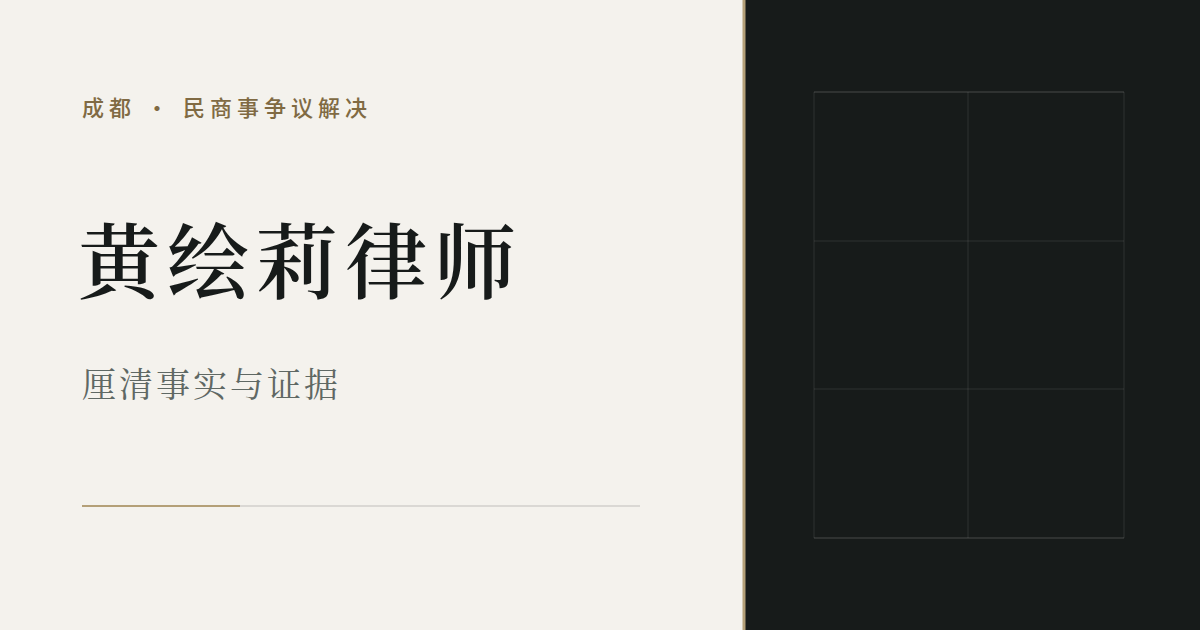
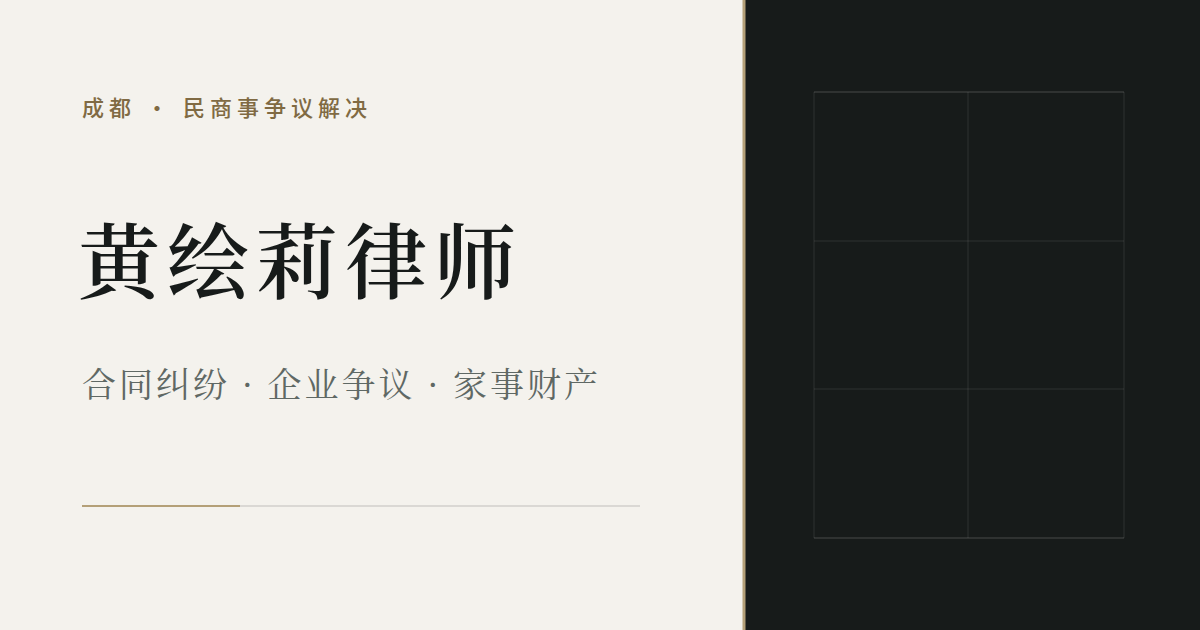
content: 从零重写全站文案，去掉 AI 腔表述
标题改短（三类业务、简介、委托流程、案例、联系），段落改用
口语化的法律表达，删除厘清、研判、处理路径等空泛说法。五个
案例保留事实，只收紧句式。分享封面副标题同步更新。

Changed region(s): [[0.0617, 0.573, 0.3392, 0.6333], [0.37, 0.573, 0.4933, 0.6333]]

diff --git a/index.html b/index.html
@@ -3,7 +3,7 @@
 <head>
   <meta charset="utf-8">
   <meta name="viewport" content="width=device-width, initial-scale=1">
-  <meta name="description" content="黄绘莉律师，成都四川观今律师事务所专职律师，办理合同纠纷与欠款清收、股权合伙与劳动争议、离婚财产分割，提供咨询、诉讼、仲裁与强制执行阶段的法律服务。">
+  <meta name="description" content="黄绘莉律师，四川观今律师事务所，成都。办理合同纠纷、欠款执行、公司股权与劳动争议、离婚财产分割。">
   <meta name="theme-color" content="#101713">
   <meta name="color-scheme" content="light">
   <meta name="referrer" content="strict-origin-when-cross-origin">
@@ -15,7 +15,7 @@
   <meta property="og:site_name" content="黄绘莉律师">
   <meta property="og:url" content="https://xn--etto7a200ej6d294b.com/">
   <meta property="og:title" content="黄绘莉律师｜成都民商事争议解决">
-  <meta property="og:description" content="办理合同纠纷与欠款清收、股权合伙与劳动争议、离婚财产分割，覆盖咨询、诉讼、仲裁与强制执行阶段。">
+  <meta property="og:description" content="合同纠纷、欠款执行、公司股权与劳动争议、离婚财产分割。">
   <meta property="og:image" content="https://xn--etto7a200ej6d294b.com/assets/og-cover.png">
   <meta property="og:image:type" content="image/png">
   <meta property="og:image:width" content="1200">
@@ -24,7 +24,7 @@
 
   <title>黄绘莉律师｜成都民商事争议解决</title>
   <link rel="icon" href="assets/favicon.svg" type="image/svg+xml">
-  <link rel="stylesheet" href="styles.css?v=20260819-1">
+  <link rel="stylesheet" href="styles.css?v=20260819-2">
   <script>document.documentElement.classList.add('js');</script>
   <script src="script.js?v=20260819-1" defer></script>
 
@@ -108,7 +108,7 @@
           <p class="hero-eyebrow reveal">HUANG HUILI · CHENGDU</p>
           <p class="hero-role reveal" data-delay="30">黄绘莉律师｜四川观今律师事务所</p>
           <h1 id="hero-title" class="reveal" data-delay="60">民商事<br>争议解决</h1>
-          <p class="hero-lead reveal" data-delay="90">在成都办理合同纠纷与欠款清收、公司股权与劳动争议、离婚财产分割，提供咨询、诉讼、仲裁及强制执行阶段的法律服务。</p>
+          <p class="hero-lead reveal" data-delay="90">在成都执业，办理合同欠款、公司股权与劳动争议、离婚分财产等民商事案件。咨询、诉讼、仲裁、执行均可。</p>
           <div class="hero-actions reveal" data-delay="120">
             <a class="button button-light" href="tel:13540104877">
               <span>电话咨询</span>
@@ -124,9 +124,9 @@
         </div>
 
         <dl class="hero-practice-list reveal" data-delay="150">
-          <div><dt>合同债权与执行</dt><dd>合同违约、欠款清收、民间借贷、强制执行与执行异议</dd></div>
-          <div><dt>企业经营争议</dt><dd>企业法律顾问、股权与合伙纠纷、劳动仲裁与劳动诉讼</dd></div>
-          <div><dt>婚姻家事财产</dt><dd>离婚财产分割、房产与存款、共同债务及子女抚养</dd></div>
+          <div><dt>合同债权与执行</dt><dd>合同违约、货款催收、民间借贷、强制执行</dd></div>
+          <div><dt>企业经营争议</dt><dd>公司顾问、股权合伙纠纷、劳动仲裁与诉讼</dd></div>
+          <div><dt>婚姻家事财产</dt><dd>离婚分财产、房产存款、子女抚养</dd></div>
         </dl>
       </div>
     </section>
@@ -136,8 +136,8 @@
         <header class="section-heading section-heading--split reveal">
           <p class="section-label">业务领域</p>
           <div>
-            <h2 id="services-title">服务范围<br><span class="heading-line">以争议类型划分</span></h2>
-            <p>法律问题通常不是单一环节。合同是否成立、证据能否相互印证、财产能否查控，往往需要放在同一条处理路径中判断。</p>
+            <h2 id="services-title">三类业务</h2>
+            <p>按纠纷类型列出。能不能办、从哪一步入手，要看您手上的材料。</p>
           </div>
         </header>
 
@@ -152,18 +152,18 @@
             </figure>
             <div class="practice-dossier__content">
               <div>
-                <h4>常见情况</h4>
+                <h4>您可能遇到</h4>
                 <ul class="client-questions">
-                  <li>对方欠款不还，多次催收仍未付款</li>
-                  <li>没有签书面合同，只有转账、聊天和送货记录</li>
-                  <li>已经拿到判决，对方仍然不履行</li>
+                  <li>对方欠钱，催了几次仍不还</li>
+                  <li>没签书面合同，只有转账和聊天记录</li>
+                  <li>判赢了，对方还是不履行</li>
                 </ul>
               </div>
               <div>
-                <h4>处理事项</h4>
+                <h4>律师办理</h4>
                 <ul class="practice-scope">
-                  <li>合同纠纷与违约责任</li>
-                  <li>欠款清收与民间借贷</li>
+                  <li>合同纠纷</li>
+                  <li>货款与民间借贷</li>
                   <li>强制执行与执行异议</li>
                 </ul>
               </div>
@@ -180,19 +180,19 @@
             </figure>
             <div class="practice-dossier__content">
               <div>
-                <h4>常见情况</h4>
+                <h4>您可能遇到</h4>
                 <ul class="client-questions">
-                  <li>股东对出资、分红或退股产生分歧</li>
-                  <li>经营合同与货款催收需要长期跟进</li>
-                  <li>被辞退、拖欠工资或未签劳动合同</li>
+                  <li>股东之间对出资、分红或退股有分歧</li>
+                  <li>经营中的合同和货款纠纷需要持续处理</li>
+                  <li>被辞退、拖欠工资，或单位没签劳动合同</li>
                 </ul>
               </div>
               <div>
-                <h4>处理事项</h4>
+                <h4>律师办理</h4>
                 <ul class="practice-scope">
-                  <li>企业日常法律顾问</li>
-                  <li>股权、合伙与商事纠纷</li>
-                  <li>劳动仲裁与劳动诉讼</li>
+                  <li>公司日常法律顾问</li>
+                  <li>股权、合伙纠纷</li>
+                  <li>劳动仲裁与诉讼</li>
                 </ul>
               </div>
             </div>
@@ -208,18 +208,18 @@
             </figure>
             <div class="practice-dossier__content">
               <div>
-                <h4>常见情况</h4>
+                <h4>您可能遇到</h4>
                 <ul class="client-questions">
-                  <li>离婚时房产、存款或股权分割有争议</li>
-                  <li>怀疑对方隐匿或转移夫妻共同财产</li>
-                  <li>需要处理共同债务或子女抚养问题</li>
+                  <li>离婚时房产、存款或公司股权分不清楚</li>
+                  <li>怀疑对方藏了钱或转了财产</li>
+                  <li>共同债务或孩子抚养谈不拢</li>
                 </ul>
               </div>
               <div>
-                <h4>处理事项</h4>
+                <h4>律师办理</h4>
                 <ul class="practice-scope">
                   <li>离婚财产分割</li>
-                  <li>房产、存款与股权分割</li>
+                  <li>房产、存款、股权分割</li>
                   <li>子女抚养与共同债务</li>
                 </ul>
               </div>
@@ -239,11 +239,11 @@
 
         <div class="about-content">
           <p class="section-label reveal">关于律师</p>
-          <h2 id="about-title" class="reveal" data-delay="40">专业方向与工作方法</h2>
+          <h2 id="about-title" class="reveal" data-delay="40">简介</h2>
           <div class="about-copy reveal" data-delay="70">
-            <p class="about-intro">黄绘莉，四川观今律师事务所专职律师，在成都办理民商事争议解决相关事务。</p>
-            <p>合同债权、企业经营和家事财产案件，常常同时涉及事实经过、证据材料与程序选择。处理工作从当事人希望解决的问题出发，再核对合同、转账、沟通记录、工商档案或财产资料，区分已经能够证明的事实与仍需补充核实的部分。</p>
-            <p>对于已经进入诉讼或执行程序的事项，工作重点会随案件阶段调整。可能是固定证据、梳理请求，也可能是财产保全、执行异议或追加责任主体。每一步均以现有材料和程序条件为基础。</p>
+            <p class="about-intro">黄绘莉，四川观今律师事务所律师，在成都做民商事诉讼和仲裁。</p>
+            <p>日常接触最多的是三类案子：货款收不回来、公司股东或员工起纠纷、离婚分财产。接案前会把合同、转账记录、聊天记录、工商档案这些材料看一遍，确认事实是否说得清、程序走到哪一步。</p>
+            <p>案子进了法院或执行局，该保全就保全，该追加被执行人就追加，该打执行异议就打。按阶段来，不事先打包承诺。</p>
           </div>
 
           <dl class="profile-facts reveal" data-delay="110">
@@ -260,26 +260,26 @@
       <div class="container relationship-layout">
         <header class="relationship-heading reveal">
           <p class="section-label section-label--dark">服务方式</p>
-          <h2 id="service-title">从首次沟通到程序推进</h2>
-          <p>案件所处阶段不同，需要处理的问题也不同。开始工作前先确认目标、材料和程序位置，再确定服务范围。</p>
+          <h2 id="service-title">委托流程</h2>
+          <p>一般按下面四步走。案子有早有晚，不一定每步都用得上。</p>
         </header>
 
         <ol class="relationship-stages">
           <li class="relationship-stage reveal" data-delay="40">
             <span class="relationship-number">01</span>
-            <div><h3>初步沟通</h3><p>了解争议双方、事情经过、当前进展和希望解决的问题。</p></div>
+            <div><h3>电话沟通</h3><p>您说一下涉及哪些人、什么事、现在卡在哪。</p></div>
           </li>
           <li class="relationship-stage reveal" data-delay="70">
             <span class="relationship-number">02</span>
-            <div><h3>材料研判</h3><p>核对现有证据，说明仍需补充的事实、程序选择和主要风险。</p></div>
+            <div><h3>看材料</h3><p>把现有的合同、记录带来。缺什么、风险在哪，当面说。</p></div>
           </li>
           <li class="relationship-stage reveal" data-delay="100">
             <span class="relationship-number">03</span>
-            <div><h3>接受委托</h3><p>明确委托事项和工作边界，按案件进展处理文书、程序与沟通。</p></div>
+            <div><h3>签委托</h3><p>谈妥了签协议，开始写文书、跑程序。</p></div>
           </li>
           <li class="relationship-stage reveal" data-delay="130">
             <span class="relationship-number">04</span>
-            <div><h3>后续衔接</h3><p>裁判、调解或仲裁后，根据履行情况判断是否进入执行程序。</p></div>
+            <div><h3>结案后续</h3><p>判下来或调解了，对方不付钱，可以申请执行。</p></div>
           </li>
         </ol>
       </div>
@@ -290,79 +290,79 @@
         <header class="cases-heading reveal">
           <div>
             <p class="section-label">代表案例</p>
-            <h2 id="cases-title">案件处理记录</h2>
+            <h2 id="cases-title">案例</h2>
           </div>
-          <p class="case-disclaimer">以下案例已经隐去当事人身份及其他识别信息，仅用于说明具体案件中的工作内容。案件结果取决于个案事实、证据和程序条件，不能直接类推。</p>
+          <p class="case-disclaimer">以下案件已隐去当事人信息。结果仅说明该案的办理情况，不代表其他案件。</p>
         </header>
 
         <div class="case-files">
           <article class="case-file reveal" data-case="sale-without-contract">
             <header class="case-file__header">
               <div class="case-file__meta"><span>01</span><small>合同债权</small></div>
-              <div><h3>未签书面合同的买卖货款纠纷</h3><p>长期供货关系中，仅凭送货、物流和对账材料主张十余万元货款。</p></div>
+              <div><h3>未签书面合同的买卖货款纠纷</h3><p>长期供货没签合同，十几万元货款要不回来。</p></div>
             </header>
             <div class="case-file__content">
-              <section class="case-field"><h4>委托背景</h4><p>某建材商贸公司与本地工厂长期合作，没有签订正式书面买卖合同。工厂收货后拖欠货款十余万元近一年，多次协商仍未支付。</p></section>
-              <section class="case-field"><h4>争议焦点</h4><p>缺少完整合同，对账内容分散，对方又回避书面确认。需要证明双方存在持续买卖关系，并明确已经交付的货物与欠款金额。</p></section>
-              <section class="case-field"><h4>证据组织</h4><p>按交易时间梳理送货回执、物流记录、微信对账和通话录音，将交付、收货、对账与催款过程相互对应，并以过往交易习惯补充说明双方关系。</p></section>
-              <section class="case-field"><h4>程序策略</h4><p>以买卖合同纠纷提起诉讼，同时申请财产保全，对对方账户采取冻结措施，避免后续履行条件发生变化。</p></section>
-              <section class="case-field"><h4>处理结果</h4><p>法院认定买卖合同关系成立，判令支付拖欠货款及逾期资金占用利息。判决生效后，对方结清相关款项。</p></section>
+              <section class="case-field"><h4>委托背景</h4><p>一家建材公司与本地工厂长期合作，从未签书面合同。工厂收货后拖欠货款十余万元，拖了近一年，协商无果。</p></section>
+              <section class="case-field"><h4>争议焦点</h4><p>没有完整合同，对账记录零散，对方不愿书面确认。要先证明双方存在买卖关系，再确定欠了多少。</p></section>
+              <section class="case-field"><h4>证据组织</h4><p>按时间整理送货回执、物流单、微信对账和通话录音，把交货、收货、对账、催款串起来，用以往交易习惯补说明。</p></section>
+              <section class="case-field"><h4>程序策略</h4><p>以买卖合同纠纷起诉，同时申请财产保全，冻结对方账户。</p></section>
+              <section class="case-field"><h4>处理结果</h4><p>法院认定买卖关系成立，判令支付货款及利息。判决生效后，对方结清款项。</p></section>
             </div>
           </article>
 
           <article class="case-file reveal" data-case="shareholder-enforcement">
             <header class="case-file__header">
               <div class="case-file__meta"><span>02</span><small>强制执行</small></div>
-              <div><h3>终本后追加未实缴出资股东</h3><p>公司名下无财产可供执行，债权人需要寻找新的责任财产与程序入口。</p></div>
+              <div><h3>终本后追加未实缴出资股东</h3><p>执行终本后，追加未实缴出资的股东。</p></div>
             </header>
             <div class="case-file__content">
-              <section class="case-field"><h4>委托背景</h4><p>当事人在借贷纠纷胜诉后申请强制执行。因债务人名下没有房产、存款等可供执行财产，法院裁定终结本次执行程序。</p></section>
-              <section class="case-field"><h4>争议焦点</h4><p>工商信息显示公司两名股东尚未实际缴纳认缴出资。能否追加股东，需要核实出资义务，并论证其对公司债务承担补充清偿责任的条件。</p></section>
-              <section class="case-field"><h4>证据组织</h4><p>调取企业内档、公司章程和股东出资信息，核对认缴安排与实际缴纳情况，为追加申请和听证答辩建立材料基础。</p></section>
-              <section class="case-field"><h4>程序策略</h4><p>向执行法院提出追加被执行人申请，并在执行异议程序中主张股东应在未出资范围内承担补充清偿责任，全程参与听证。</p></section>
-              <section class="case-field"><h4>处理结果</h4><p>法院裁定追加两名股东为被执行人，并冻结相关个人账户。此后双方形成付款方案，当事人收回大部分债权款项。</p></section>
+              <section class="case-field"><h4>委托背景</h4><p>当事人在借贷纠纷中胜诉并申请执行。债务人名下没有房产、存款等可供执行的财产，法院裁定终结本次执行。</p></section>
+              <section class="case-field"><h4>争议焦点</h4><p>工商登记显示两名股东未实缴出资。能否追加股东，要看出资义务是否到期、是否应在未出资范围内担责。</p></section>
+              <section class="case-field"><h4>证据组织</h4><p>调取企业内档、章程和出资记录，核对认缴与实际缴纳情况。</p></section>
+              <section class="case-field"><h4>程序策略</h4><p>向执行法院申请追加股东为被执行人，参加听证并主张补充清偿责任。</p></section>
+              <section class="case-field"><h4>处理结果</h4><p>法院裁定追加两名股东，冻结其个人账户。之后双方达成付款方案，当事人收回大部分款项。</p></section>
             </div>
           </article>
 
           <article class="case-file reveal" data-case="employment-termination">
             <header class="case-file__header">
               <div class="case-file__meta"><span>03</span><small>劳动争议</small></div>
-              <div><h3>违法解除与未签劳动合同争议</h3><p>缺少书面劳动合同和辞退通知，需要从日常工作记录还原劳动关系与解除经过。</p></div>
+              <div><h3>违法解除与未签劳动合同争议</h3><p>没签劳动合同，口头辞退，要双倍工资和赔偿金。</p></div>
             </header>
             <div class="case-file__content">
-              <section class="case-field"><h4>委托背景</h4><p>当事人在某商贸公司工作近八个月，单位未签订书面劳动合同，也未依法缴纳社会保险，随后以口头方式辞退员工并拒绝补偿。</p></section>
-              <section class="case-field"><h4>争议焦点</h4><p>单位可能否认辞退事实，并主张员工自行离职。案件需要证明劳动关系、工资标准、工作期间以及解除行为由单位作出。</p></section>
-              <section class="case-field"><h4>证据组织</h4><p>固定工资转账、考勤截图、工作群记录、日常沟通和辞退聊天记录，按时间整理入职、工作、发薪与解除的连续事实。</p></section>
-              <section class="case-field"><h4>程序策略</h4><p>核算未签劳动合同双倍工资差额和违法解除赔偿金，提起劳动仲裁，并针对单位关于自动离职的意见逐项答辩。</p></section>
-              <section class="case-field"><h4>处理结果</h4><p>仲裁机构裁决单位支付未签劳动合同双倍工资差额及违法解除劳动合同赔偿金，用人单位按期履行。</p></section>
+              <section class="case-field"><h4>委托背景</h4><p>当事人在一家商贸公司工作近八个月，单位未签劳动合同、未缴社保，后以口头方式辞退，拒绝任何补偿。</p></section>
+              <section class="case-field"><h4>争议焦点</h4><p>单位可能否认辞退，说是员工自己走的。要证明劳动关系、工资标准、工作时长，以及解除是单位作出的。</p></section>
+              <section class="case-field"><h4>证据组织</h4><p>固定工资转账、考勤截图、工作群记录和辞退聊天，按时间排列。</p></section>
+              <section class="case-field"><h4>程序策略</h4><p>核算双倍工资差额和违法解除赔偿金，提起劳动仲裁，针对单位答辩逐一回应。</p></section>
+              <section class="case-field"><h4>处理结果</h4><p>仲裁裁决单位支付双倍工资差额和违法解除赔偿金，单位按期履行。</p></section>
             </div>
           </article>
 
           <article class="case-file reveal" data-case="partnership-withdrawal">
             <header class="case-file__header">
               <div class="case-file__meta"><span>04</span><small>合伙经营</small></div>
-              <div><h3>合伙经营中的退伙与分红争议</h3><p>口头约定居多，账目由一方掌握，需要先确认合伙投入和经营收益。</p></div>
+              <div><h3>合伙经营中的退伙与分红争议</h3><p>合伙开店两年，对方管账不分红。</p></div>
             </header>
             <div class="case-file__content">
-              <section class="case-field"><h4>委托背景</h4><p>当事人与朋友合伙经营门店，口头约定股权比例和分红规则。门店经营两年持续盈利，但负责经营的一方长期不公开账目，也不分配利润。</p></section>
-              <section class="case-field"><h4>争议焦点</h4><p>书面合伙协议并不完整，财务资料又由对方控制。需要确认出资与分红约定，并核算门店经营期间的收益。</p></section>
-              <section class="case-field"><h4>证据组织</h4><p>调取门店营收流水、采购单据和日常经营记录，整理与合伙出资、利润分配、退出安排有关的聊天记录。</p></section>
-              <section class="case-field"><h4>程序策略</h4><p>先组织双方协商。未能直接解决后，提起合伙协议纠纷诉讼，并申请对经营账目和收益进行审计核算。</p></section>
-              <section class="case-field"><h4>处理结果</h4><p>经法院组织调解，双方解除合伙关系，由一方退还出资份额并结算历年分红，合伙关系随后终止。</p></section>
+              <section class="case-field"><h4>委托背景</h4><p>当事人与朋友合伙开门店，口头约定股权和分红。经营两年一直盈利，但管账的一方不公开账目，也不分红。</p></section>
+              <section class="case-field"><h4>争议焦点</h4><p>书面协议不完整，账在对方手里。要确认出资金额、分红约定，并核算这两年的收益。</p></section>
+              <section class="case-field"><h4>证据组织</h4><p>调取门店流水、采购单据和经营记录，整理关于出资、分红、退出的聊天记录。</p></section>
+              <section class="case-field"><h4>程序策略</h4><p>先协商，谈不拢后起诉，并申请对账目和收益做审计。</p></section>
+              <section class="case-field"><h4>处理结果</h4><p>法院调解下双方解除合伙，一方退还出资并结算分红。</p></section>
             </div>
           </article>
 
           <article class="case-file reveal" data-case="divorce-assets">
             <header class="case-file__header">
               <div class="case-file__meta"><span>05</span><small>婚姻家事</small></div>
-              <div><h3>离婚案件中的房产与隐匿存款分割</h3><p>一方无法掌握完整账户资料，需要借助诉讼调查还原共同财产范围。</p></div>
+              <div><h3>离婚案件中的房产与隐匿存款分割</h3><p>离婚诉讼中，男方疑似藏了存款和理财。</p></div>
             </header>
             <div class="case-file__content">
-              <section class="case-field"><h4>委托背景</h4><p>夫妻婚后购置房产，感情破裂后进入离婚诉讼。女方发现男方可能隐瞒银行存款和理财资产，但无法自行取得完整账户信息。</p></section>
-              <section class="case-field"><h4>争议焦点</h4><p>案件需要查明夫妻共同财产范围，区分房产的婚前婚后投入，并核实是否存在隐匿或转移共同财产的情况。</p></section>
-              <section class="case-field"><h4>证据组织</h4><p>申请律师调查令，调取多家银行流水和理财账户明细，同时梳理购房出资、还贷记录和异常资金往来。</p></section>
-              <section class="case-field"><h4>程序策略</h4><p>在离婚诉讼中完整列明需要调查的财产线索，对查明的资产逐项提出分割意见，并主张对隐匿财产的一方依法少分。</p></section>
-              <section class="case-field"><h4>处理结果</h4><p>法院认定存在隐匿夫妻共同财产的情形，对房产、存款等财产依法作出分割，女方取得相应财产权益。</p></section>
+              <section class="case-field"><h4>委托背景</h4><p>夫妻婚后买房，感情破裂后起诉离婚。女方怀疑男方隐瞒银行存款和理财，但拿不到完整账户信息。</p></section>
+              <section class="case-field"><h4>争议焦点</h4><p>要查清夫妻共同财产的范围，区分房产的婚前婚后投入，并核实有无藏钱或转钱。</p></section>
+              <section class="case-field"><h4>证据组织</h4><p>申请调查令，调取多家银行流水和理财明细，同时整理购房出资、还贷记录和异常转账。</p></section>
+              <section class="case-field"><h4>程序策略</h4><p>在离婚诉讼中列明财产线索，对查到的资产逐项主张分割，要求对藏财产一方少分。</p></section>
+              <section class="case-field"><h4>处理结果</h4><p>法院认定男方隐匿共同财产，对房产、存款等依法分割，女方取得相应份额。</p></section>
             </div>
           </article>
         </div>
@@ -373,8 +373,8 @@
       <div class="container contact-panel reveal">
         <div class="contact-main">
           <p class="section-label section-label--dark">联系咨询</p>
-          <h2 id="contact-title">先说明事实，<br>再判断如何处理</h2>
-          <p>首次联系时，可以简要说明事情经过、当前阶段和已有材料。是否适合接受委托，需要在了解具体事项后确认。</p>
+          <h2 id="contact-title">联系</h2>
+          <p>可以打电话。把经过和手上有的材料简单说一下，合适的话再约面谈或签委托。</p>
           <a class="contact-phone" href="tel:13540104877">
             <span>咨询电话</span>
             <strong>135 4010 4877</strong>
@@ -384,12 +384,12 @@
 
         <div class="contact-side">
           <div class="contact-preparation">
-            <h3>联系前可以准备</h3>
+            <h3>打电话前准备</h3>
             <ul>
-              <li>争议双方及彼此关系</li>
-              <li>事情发生时间与当前进展</li>
-              <li>已经保存的主要材料</li>
-              <li>希望处理的具体问题</li>
+              <li>对方是谁，和您什么关系</li>
+              <li>事情什么时候发生的，现在到哪一步了</li>
+              <li>手上有哪些材料</li>
+              <li>想解决什么问题</li>
             </ul>
           </div>
           <dl class="contact-details">
@@ -403,7 +403,7 @@
 
   <footer class="site-footer">
     <div class="container footer-minimal">
-      <p class="footer-note">本网站内容仅作一般法律信息参考，不构成针对具体事项的正式法律意见或案件结果承诺。</p>
+      <p class="footer-note">本站内容为一般信息，不构成正式法律意见。</p>
       <p class="footer-copyright">© <span data-current-year>2026</span> 黄绘莉律师</p>
     </div>
   </footer>

diff --git a/styles.css b/styles.css
@@ -448,10 +448,6 @@ section[id] {
   text-wrap: balance;
 }
 
-.section-heading--split h2 .heading-line {
-  white-space: nowrap;
-}
-
 .section-heading h2,
 .about-content h2,
 .relationship-heading h2,

diff --git a/tests/test_site_structure.py b/tests/test_site_structure.py
@@ -136,7 +136,7 @@ class SiteStructureTests(unittest.TestCase):
         self.assertNotIn("<figcaption>", self.html)
         self.assertIn("黄绘莉律师｜四川观今律师事务所", self.html)
         self.assertIn("民商事争议解决", self.html)
-        self.assertIn("专业方向与工作方法", self.html)
+        self.assertIn("简介", self.html)
 
 
 if __name__ == "__main__":

diff --git a/README.md b/README.md
@@ -42,17 +42,17 @@ python -m http.server 8081
 1. 首页：人物、姓名、律所、专业定位和电话入口
 2. 业务领域：合同债权与执行、企业经营与劳动争议、婚姻家事财产争议
 3. 关于律师：专业方向、工作方法和必要执业信息
-4. 服务方式：初步沟通、材料研判、接受委托和后续衔接
+4. 服务方式：电话沟通、看材料、签委托、结案后续
 5. 代表案例：五个完整的脱敏案件处理记录
 6. 联系咨询：电话、律所、地址和咨询前材料提示
 
 三类业务在视觉和内容上保持同一层级，不设置主次。案例区只使用已经确认的五个案例，不增加无法由资料支持的法院、案号、客户身份、精确日期、荣誉或职业年限。
 
-## 文案用词
+## 文案风格
 
-「常见情况」使用当事人自己的说法，例如“对方欠款不还”“被辞退”“离婚时房产分割有争议”，便于来访者确认自己属于哪一类问题。「处理事项」使用对应的法律事务名称，例如“欠款清收与民间借贷”“劳动仲裁与劳动诉讼”“离婚财产分割”。
+页面文案用短句、口语化的法律表达，不用「厘清」「研判」「处理路径」一类空泛说法。业务区用「您可能遇到」和「律师办理」两层对照；案例保留五个字段，但每段话尽量写具体，少堆并列句式。
 
-首屏、业务领域、关于律师和页面元信息保留“成都”地域说明。改写文案时保持这两层用词的对应关系，不堆砌关键词，不使用结果承诺类表述。
+标题尽量短：「三类业务」「简介」「委托流程」「案例」「联系」。页脚免责声明一行说完。
 
 ## 案例维护规则
 
